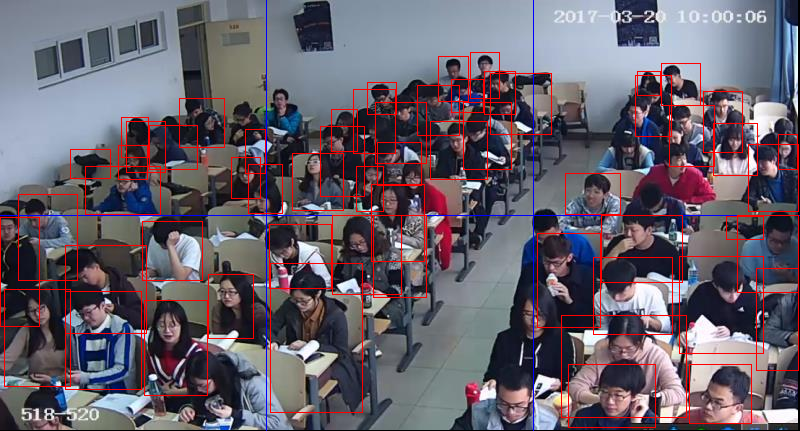
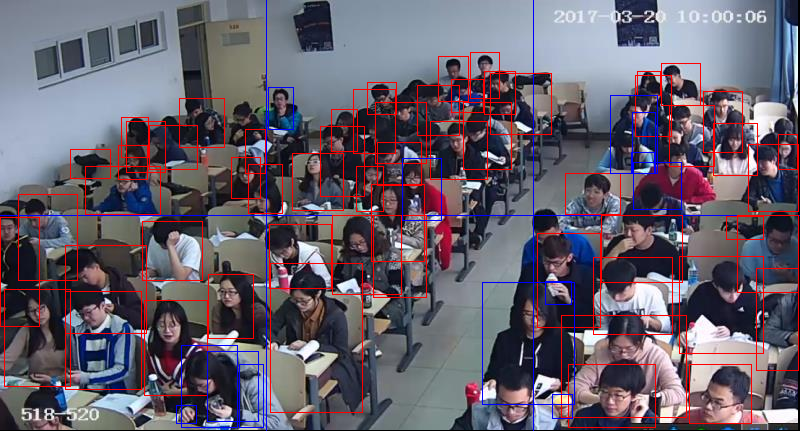
2017.6.27 commit

diff --git a/ImageUnited.py b/ImageUnited.py
@@ -130,18 +130,35 @@ def BoxList_united_process_x(BoxList_united):
 
 def Image_Retrain_Imwrite(studentImage_retrain):
     dir_path='Image_Retrain/'
+    txt_path='Image_Retrain_txt/'
+    count=1
+    flag=1
     if not os.path.exists(dir_path):
         os.mkdir(dir_path)
     else:
         for name in os.listdir(dir_path):
             os.remove(dir_path+name)
+    if not os.path.exists(txt_path):
+        os.mkdir(txt_path)
+    else:
+        for name in os.listdir(txt_path):
+            os.remove(txt_path+name)
     img=cv2.imread('data/1.JPG')
     (rows,cols)=img.shape[0:2]
+    fp=open(txt_path+str(flag)+'.txt','w')
     for box in studentImage_retrain:
         [x,y,w,h]=box
         filename=str(x)+'_'+str(y)+'.png'
         filepath=dir_path+filename
+        if count>3:
+        	count=1
+        	fp.close()
+        	flag+=1
+        	fp=open(txt_path+str(flag)+'.txt','w')
+        count+=1
+        fp.write(filepath+'\n')
         cv2.imwrite(filepath,img[y:y+h,x:x+w])
+    fp.close()
 
 def ImageUnited(ImagePath,heigth_split_num,width_split_num,piex_thresh):
     student_number=0

diff --git a/ImageRetrain_United.py b/ImageRetrain_United.py
@@ -1,0 +1,31 @@
+import cv2
+import numpy as np
+import os
+import re
+import csv
+import sys
+import copy
+
+def ImageRetrainUnited(CsvFilepath):
+    img=cv2.imread("img_united.png")
+    pattern='.csv'
+    for filename in os.listdir(CsvFilepath):
+        match=re.search(pattern,filename)
+        if match is not None:
+            x_add=int(filename.split('.')[0].split('_')[0])
+            y_add=int(filename.split('.')[0].split('_')[1])
+            fp=open(CsvFilepath+filename)
+            r=csv.reader(fp)
+            for row in r:
+                box=[x,y,w,h]=[int(row[1]),int(row[2]),int(row[3]),int(row[4])]
+                x=x+x_add
+                y=y+y_add
+                cv2.rectangle(img,(x,y),(x+w,y+h),(255,0,0),1)
+            fp.close()
+    cv2.imshow("img_united_new",img)
+    cv2.imwrite("img_united.png",img)
+    cv2.waitKey(0)
+    cv2.destroyAllWindows()
+
+CsvFilepath='ImageRetrain_results/'
+ImageRetrainUnited(CsvFilepath)

diff --git a/examples/darknet.c b/examples/darknet.c
@@ -433,6 +433,7 @@ int main(int argc, char **argv)
         char *filename=NULL;
         char *file_tmp=NULL;
         char *filename_txt =argv[4];
+        char *Outfilename_txt =argv[5];
         FILE *fp=fopen(filename_txt,"r");
         char Outputfilename_tmp[256];
         char Inputfilename_tmp[256];
@@ -463,7 +464,7 @@ int main(int argc, char **argv)
         printf("in:%s\n",file_tmp);
         char *tmp=strtok(file_tmp,"/");
         tmp=strtok(NULL,".");
-        sprintf(Outputfilename_tmp,"results/%s",tmp); 
+        sprintf(Outputfilename_tmp,"%s/%s",Outfilename_txt,tmp); 
         //char *outfile = find_char_arg(argc, argv, "-out", 0);
         //strcat(Outputfilename_tmp,"\0");
         
